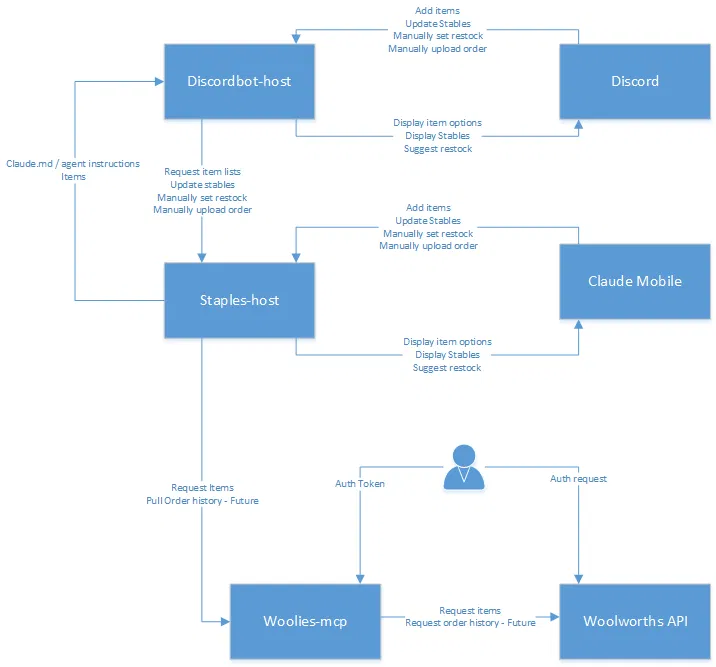
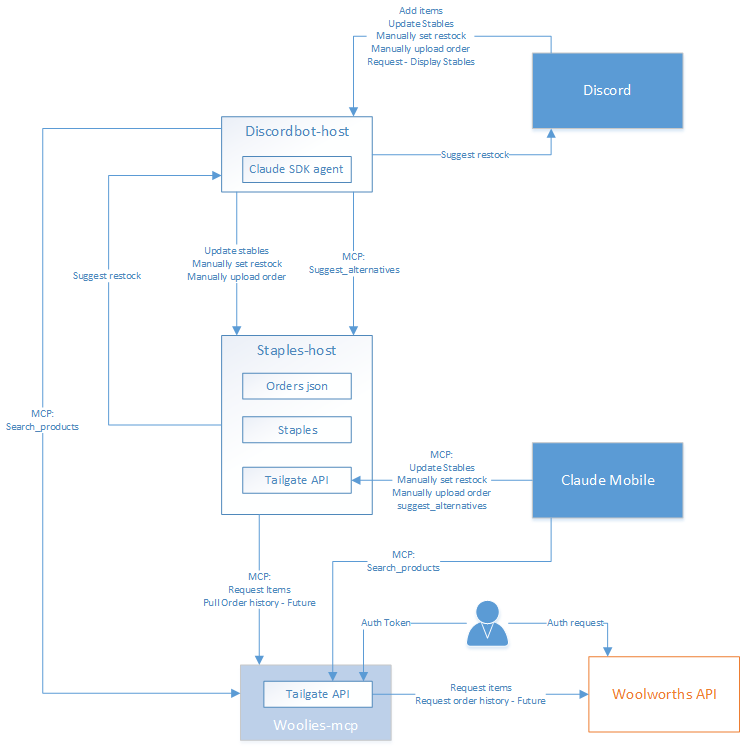
Update architecture diagram and document recipe-pricing best-value scope
Replace docs/architecture.png with an updated diagram showing the actual
MCP tool calls and Tailgate API layer between components. Add a dedicated
Recipe pricing section explaining why best-value picks appear for
single-item requests but not multi-ingredient/recipe lists (API
response-time limit per call), replacing the shorter inline mention.

diff --git a/README.md b/README.md
@@ -86,9 +86,8 @@ nothing marked, since there's no real signal to recommend one over another:
 
 Either way, asking about one item always includes a best-value pick — the
 cheapest price-per-unit option of that type — regardless of which path found
-the recommendation. Asking for a whole recipe/ingredient list at once skips
-best-value (computing it for every ingredient was too slow to do reliably) —
-ask about a specific item on its own if you want its cheapest option.
+the recommendation. See "Recipe pricing" below for why a whole recipe/
+ingredient list at once doesn't get the same treatment.
 
 These suggestions are only as good as your purchase history, so recording it
 matters. Until Woolworths fixes their order-history API (at which point this
@@ -97,6 +96,26 @@ and order/invoice number — from the Orders page on the Woolworths website,
 and paste it into either the `#order-import` Discord channel or a Claude.ai
 conversation with the staples-host connector. That paste becomes real
 purchase history, which is exactly what the recommendations above draw on.
+
+## Recipe pricing
+
+Asking about a single item (e.g. "add cheese") always includes a best-value
+pick alongside its alternatives — the cheapest price-per-unit option in that
+product's variety, across any brand.
+
+Asking for a whole recipe or ingredient list at once (e.g. "what do I need
+for chilli lime squid salad") does **not** get a best-value pick for each
+ingredient. Computing it means an extra product-variety search per
+ingredient on top of resolving the ingredient itself, and a multi-ingredient
+request already has to resolve everything in one call within the underlying
+API's own response-time limit — adding a best-value search per ingredient
+pushed a realistic recipe well past that limit and produced no reply at all,
+not just a slower one. So recipe/list requests skip best-value entirely and
+return alternatives only.
+
+If you want the cheapest option for one ingredient from a recipe, ask about
+that ingredient on its own afterwards (e.g. "what's the best value cheese")
+and it'll get the full single-item treatment, best-value included.
 
 ## More detail
 
